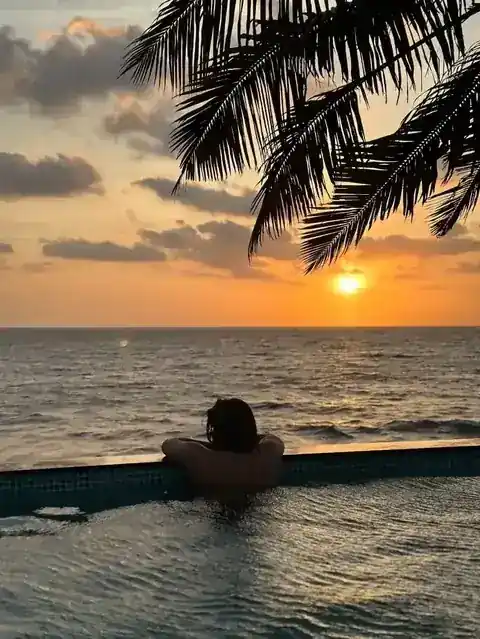
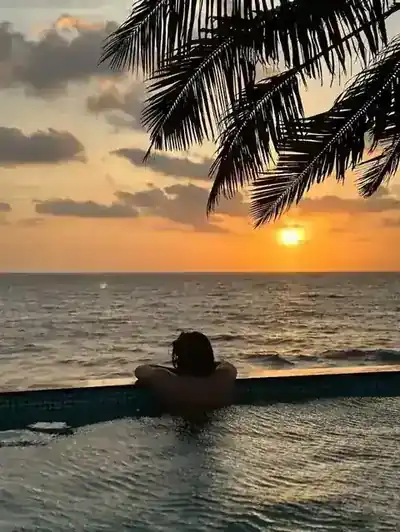
Fix Lighthouse accessibility audits: add iframe title, role=img on stars divs, WCAG-compliant contrast colors, and further compress about-story-480w

diff --git a/index.html b/index.html
@@ -464,7 +464,7 @@
                 <div class="testimonials-grid">
                     <div class="testimonial-card">
                         <div class="testimonial-header">
-                            <div class="stars" aria-label="5 out of 5 stars">
+                            <div class="stars" role="img" aria-label="5 out of 5 stars">
                                 <svg viewBox="0 0 24 24" fill="currentColor"><path d="M12 17.27L18.18 21L16.54 13.97L22 9.24L14.81 8.63L12 2L9.19 8.63L2 9.24L7.46 13.97L5.82 21L12 17.27Z"/></svg>
                                 <svg viewBox="0 0 24 24" fill="currentColor"><path d="M12 17.27L18.18 21L16.54 13.97L22 9.24L14.81 8.63L12 2L9.19 8.63L2 9.24L7.46 13.97L5.82 21L12 17.27Z"/></svg>
                                 <svg viewBox="0 0 24 24" fill="currentColor"><path d="M12 17.27L18.18 21L16.54 13.97L22 9.24L14.81 8.63L12 2L9.19 8.63L2 9.24L7.46 13.97L5.82 21L12 17.27Z"/></svg>
@@ -483,7 +483,7 @@
                     </div>
                     <div class="testimonial-card">
                         <div class="testimonial-header">
-                            <div class="stars" aria-label="5 out of 5 stars">
+                            <div class="stars" role="img" aria-label="5 out of 5 stars">
                                 <svg viewBox="0 0 24 24" fill="currentColor"><path d="M12 17.27L18.18 21L16.54 13.97L22 9.24L14.81 8.63L12 2L9.19 8.63L2 9.24L7.46 13.97L5.82 21L12 17.27Z"/></svg>
                                 <svg viewBox="0 0 24 24" fill="currentColor"><path d="M12 17.27L18.18 21L16.54 13.97L22 9.24L14.81 8.63L12 2L9.19 8.63L2 9.24L7.46 13.97L5.82 21L12 17.27Z"/></svg>
                                 <svg viewBox="0 0 24 24" fill="currentColor"><path d="M12 17.27L18.18 21L16.54 13.97L22 9.24L14.81 8.63L12 2L9.19 8.63L2 9.24L7.46 13.97L5.82 21L12 17.27Z"/></svg>
@@ -502,7 +502,7 @@
                     </div>
                     <div class="testimonial-card">
                         <div class="testimonial-header">
-                            <div class="stars" aria-label="5 out of 5 stars">
+                            <div class="stars" role="img" aria-label="5 out of 5 stars">
                                 <svg viewBox="0 0 24 24" fill="currentColor"><path d="M12 17.27L18.18 21L16.54 13.97L22 9.24L14.81 8.63L12 2L9.19 8.63L2 9.24L7.46 13.97L5.82 21L12 17.27Z"/></svg>
                                 <svg viewBox="0 0 24 24" fill="currentColor"><path d="M12 17.27L18.18 21L16.54 13.97L22 9.24L14.81 8.63L12 2L9.19 8.63L2 9.24L7.46 13.97L5.82 21L12 17.27Z"/></svg>
                                 <svg viewBox="0 0 24 24" fill="currentColor"><path d="M12 17.27L18.18 21L16.54 13.97L22 9.24L14.81 8.63L12 2L9.19 8.63L2 9.24L7.46 13.97L5.82 21L12 17.27Z"/></svg>
@@ -659,6 +659,7 @@
             
             <div class="map-wrapper" style="position: relative; height: 500px; margin-top: 2rem; overflow: hidden; border-radius: var(--radius-lg); margin: 2rem var(--space-sm) 0; box-shadow: var(--shadow-lg);">
                 <iframe 
+                    title="Google Maps Location of Rajav Resort"
                     src="https://www.google.com/maps/embed?pb=!1m18!1m12!1m3!1d3927.878704201889!2d76.1764779!3d10.1411516!2m3!1f0!2f0!3f0!3m2!1i1024!2i768!4f13.1!3m3!1m2!1s0x3b081100683d9b2b%3A0x71b0f2e36ed723f9!2sRajav%20-%20Celebrity%20Beach%20Hub%20%26%20Resort!5e0!3m2!1sen!2sin!4v1715582300000!5m2!1sen!2sin" 
                     width="100%" 
                     height="100%" 

diff --git a/rooms.html b/rooms.html
@@ -165,7 +165,7 @@
             flex-direction: column;
         }
         .room-seo-tag {
-            color: var(--clr-secondary);
+            color: var(--clr-secondary-text);
             text-transform: uppercase;
             letter-spacing: 2px;
             font-size: 0.8rem;
@@ -233,7 +233,7 @@
             color: var(--clr-text-main);
         }
         .room-amenities-check li svg {
-            color: var(--clr-secondary);
+            color: var(--clr-secondary-text);
             flex-shrink: 0;
         }
         
@@ -534,7 +534,7 @@
         <section class="rooms-hero">
             <div class="rooms-hero-overlay"></div>
             <div class="container rooms-hero-content">
-                <span class="section-tag" style="color: var(--clr-secondary);">Luxurious Stays</span>
+                <span class="section-tag" style="color: var(--clr-secondary-text);">Luxurious Stays</span>
                 <h1 class="hero-title" style="margin-bottom: 0.8rem;">Accommodations & Suites</h1>
                 <div class="hero-tagline-container">
                     <p class="hero-tagline-text">Wake up to the sound of breaking waves. Discover our curated collection of luxury beachfront suites, jacuzzi villas, & cozy coastal hideaways.</p>
@@ -629,7 +629,7 @@
                 <!-- Couples / Honeymoon Callout Banner (High-Impact Audit Keyword mapping) -->
                 <div class="honeymoon-banner">
                     <div class="honeymoon-content">
-                        <span class="room-seo-tag" style="color: var(--clr-secondary); font-size: 0.9rem;">Perfect for Couples & Celebrations</span>
+                        <span class="room-seo-tag" style="color: var(--clr-secondary-text); font-size: 0.9rem;">Perfect for Couples & Celebrations</span>
                         <h2 class="honeymoon-title">Romantic Honeymoon Packages near Cherai Beach</h2>
                         <p class="honeymoon-desc">Celebrate your love at the most romantic beach resort in Kerala. Our couples' beach getaways feature floral room setups, private beachfront candle-lit dinners, and premium suite upgrades. Let us make your anniversary or honeymoon stay at Rajav Resort completely unforgettable.</p>
                         <a href="index.html#contact" class="btn btn-secondary" style="font-weight:700;">Enquire For Packages</a>

diff --git a/style.css b/style.css
@@ -54,6 +54,7 @@
     --clr-primary-light: #e6f0fa;
     --clr-secondary: #D4AF37; /* Gold/Sand Accent */
     --clr-secondary-dark: #b5952f;
+    --clr-secondary-text: #856914; /* Darker gold for WCAG 4.5:1 contrast on white */
     --clr-bg: #FFFFFF;
     --clr-bg-light: #f8fbff;
     --clr-text-main: #333333;
@@ -590,7 +591,7 @@ input[type="date"]::-webkit-calendar-picker-indicator {
    ========================================================================== */
 .section-tag {
     display: inline-block;
-    color: var(--clr-secondary);
+    color: var(--clr-secondary-text);
     font-weight: 600;
     text-transform: uppercase;
     letter-spacing: 2px;
@@ -986,7 +987,7 @@ input[type="date"]::-webkit-calendar-picker-indicator {
 
 .suite-features li span {
     font-size: 1.1rem;
-    color: var(--clr-primary);
+    color: var(--clr-secondary-text);
 }
 
 /* Book Now button — matches other room cards */
@@ -1147,7 +1148,7 @@ input[type="date"]::-webkit-calendar-picker-indicator {
 }
 
 .room-features li span {
-    color: var(--clr-primary);
+    color: var(--clr-secondary-text);
 }
 
 .room-card .btn {
@@ -1215,7 +1216,7 @@ input[type="date"]::-webkit-calendar-picker-indicator {
     justify-content: center;
     background: rgba(0, 102, 204, 0.05);
     border-radius: 12px;
-    color: var(--clr-primary);
+    color: var(--clr-secondary-text);
     transition: all 0.4s ease;
 }
 
@@ -1262,7 +1263,7 @@ input[type="date"]::-webkit-calendar-picker-indicator {
 .stars {
     display: flex;
     gap: 4px;
-    color: var(--clr-secondary);
+    color: var(--clr-secondary-text);
 }
 
 .stars svg {
